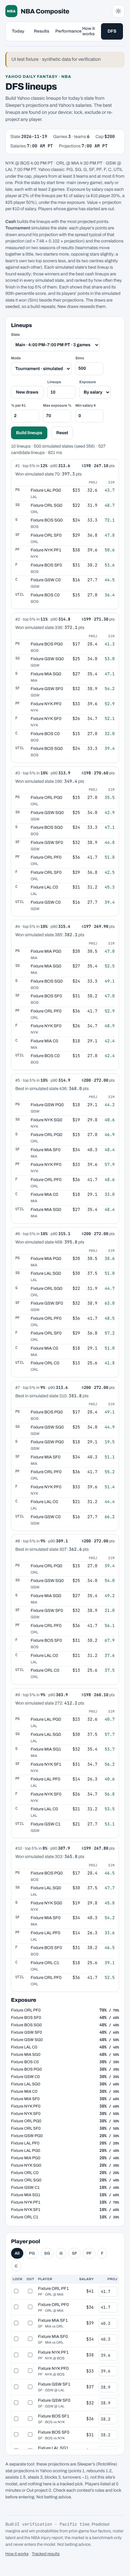
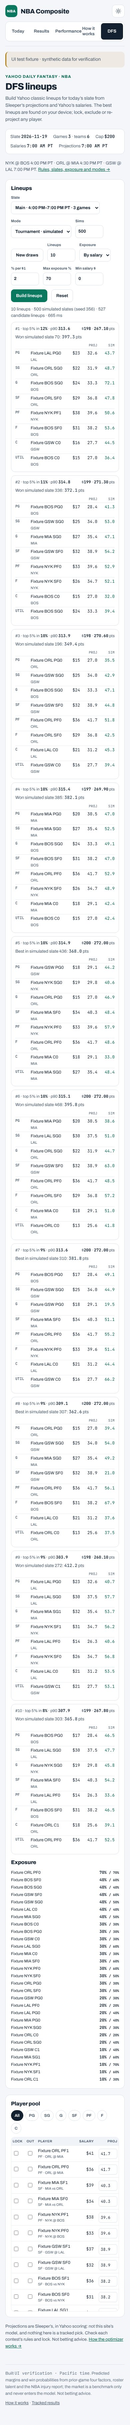
DFS page: short notes; the explanation moves to How it works
Owner's request: the page carried two long paragraphs (rules, slates,
exposure, value, started games, cash vs tournament, the simulation). Now
the page keeps the games, the count of players without a projection, a
link to How it works and the one-line credit (Sleeper's projections, not
this site's model, not a tracked pick, not betting advice). The columns
explain themselves on hover (Value, FPPG, Min).

How it works gains a "DFS lineups" section (dfs.guide(), #dfs): sources
and Yahoo scoring, lineup rules, slates, exposure, cash and tournament
and the Sim column, built from the same constants as the optimizer
(MIN_TEAMS, MAX_PER_TEAM, SIM), so the two cannot drift apart.

Claude-Session: https://claude.ai/code/session_01Tymo9A874w1j1dz2D4UFzh

Changed region(s): [[0.0308, 0.0, 0.9231, 0.9967]]

diff --git a/dfs.py b/dfs.py
@@ -315,11 +315,9 @@ def body(data, ui):
             "<h1>DFS lineups</h1><p>Build Yahoo classic lineups for today’s slate from Sleeper’s "
             "projections and Yahoo’s salaries. The best lineups are found on your device; lock, "
             "exclude or re-project any player.</p></div></div>")
-    note = ("<p class='public-note'>A separate tool: these projections are Sleeper’s (RotoWire) stat "
-            "projections in Yahoo scoring (points 1, rebounds 1.2, assists 1.5, steals 3, blocks 3, "
-            "turnovers −1), not this site’s model, and nothing here is a tracked pick. Players "
-            "listed at 0 minutes or Out project 0. Check each contest’s rules and lock before "
-            "entering. Not betting advice.</p>")
+    note = ("<p class='public-note'>Projections are Sleeper’s, in Yahoo scoring: not this site’s model, "
+            "and nothing here is a tracked pick. Check each contest’s rules and lock. Not betting "
+            "advice. <a href='how-it-works.html#dfs'>How the optimizer works →</a></p>")
     if not data:
         return (head + "<div class='public-empty'><h2>No Yahoo slate today</h2><p>Yahoo has not "
                 "published salaries for today’s games yet, or they could not be fetched. The page "
@@ -334,8 +332,9 @@ def body(data, ui):
               "</div>")
     games = " · ".join(f"{_esc(g['away'])} @ {_esc(g['home'])} {_esc(ui.tip_pt(g['start']))}"
                        for g in data["games"])
-    miss = (f" {len(data['unmatched'])} Yahoo player(s) have no Sleeper projection; enter one "
-            "to use them." if data["unmatched"] else "")
+    k = len(data["unmatched"])
+    miss = (f" {k} Yahoo player{'s have' if k > 1 else ' has'} no Sleeper projection; enter one "
+            "to use them." if k else "")
     controls = ("<div class='dfs-controls'>"
                 "<label>Slate<select id='dfs-slate' aria-label='Slate by start time'></select></label>"
                 "<label>Mode<select id='dfs-mode' aria-label='Contest type'><option value='cash'>Cash · best projection</option>"
@@ -354,35 +353,57 @@ def body(data, ui):
             "<div class='dfs-pos' id='dfs-pos' role='group' aria-label='Filter by position'></div>"
             "<div class='dfs-scroll'><table class='dfs-table'><thead><tr><th>Lock</th><th>Out</th>"
             "<th>Player</th><th class='x'>Pos</th><th class='n'>Salary</th><th class='n'>Proj</th>"
-            "<th class='n x'>Value</th><th class='n x'>FPPG</th><th class='n x'>Min</th></tr></thead>"
+            "<th class='n x' title='Projection per $10 of salary'>Value</th>"
+            "<th class='n x' title='Yahoo season average'>FPPG</th>"
+            "<th class='n x' title='Sleeper projected minutes'>Min</th></tr></thead>"
             "<tbody id='dfs-pool'></tbody></table></div></section>")
     out = ("<section class='dfs-panel dfs-out'><h2>Lineups</h2>" + controls +
            "<div id='dfs-msg' class='dfs-msg' aria-live='polite'>Building lineups…</div>"
            "<div id='dfs-out'></div><h2 style='margin-top:14px'>Exposure</h2>"
            "<ul class='dfs-exp' id='dfs-exposure'></ul></section>")
     payload = json.dumps(data, separators=(",", ":")).replace("</", "<\\/")
-    return (head + status + f"<p class='public-note'>{games}. Yahoo classic: PG, SG, G, SF, PF, F, "
-            f"C, UTIL under the cap, players from at least {MIN_TEAMS} teams and at most "
-            f"{MAX_PER_TEAM} from one. Pick the slate by start time: main (every game), early or "
-            f"late, each with at least 2 games. Exposure by salary caps each player at 2% of the "
-            f"lineups per $1 of salary (a $10 player 20%, a $25 player 50%), under the max "
-            f"exposure. Value = projection per $10 of salary. Players "
-            f"whose game has started are out.{miss}</p>"
-            "<p class='public-note'><b>Cash</b> builds the lineups with the most projected points. "
-            "<b>Tournament</b> simulates the slate: each player’s points are drawn around his projection "
-            f"with the spread typical of that projection (sd ≈ {SIM['sd_base']:g} + {SIM['sd_slope']:g} × "
-            "projection) and the correlations measured on two seasons of results (teammates move together "
-            "a little, two starters more, opposing stars slightly; a team’s own two top scorers less, "
-            "and its two centres slightly against each other). "
-            "Each simulated slate’s best lineup is found exactly; those winners and the best cash "
-            "lineups are scored in every simulated slate, and ranked by how often they finish in the top "
-            "5% of them. Each shows that share and its 90th-percentile score, and its players’ points in "
-            "the simulated slate it won (Sim) beside their projections. The draws are seeded, so a "
-            "build repeats; New draws reseeds them.</p>"
+    return (head + status + f"<p class='public-note'>{games}.{miss} "
+            "<a href='how-it-works.html#dfs'>Rules, slates, exposure and modes →</a></p>"
             "<noscript><p class='public-note'>The optimizer needs JavaScript.</p></noscript>"
             "<div class='dfs-grid'>" + pool + out + "</div>" + note
             + f"<script type='application/json' id='dfs-data'>{payload}</script>"
             + f"<script>{SOLVER_JS}{UI_JS}</script>")
+
+
+def guide():
+    """The DFS section of How it works: everything the page itself leaves
+    out, from the same constants the optimizer uses."""
+    m = SIM
+    return (
+        "<section id='dfs'><h2>DFS lineups</h2>"
+        "<p>The DFS page builds Yahoo daily-fantasy lineups for the day’s games. It is a separate "
+        "tool: it uses none of this site’s forecasts or tracked picks and does not affect them.</p>"
+        "<h3>Projections and salaries</h3><p>Salaries, positions and the cap come from Yahoo. "
+        "Projections are Sleeper’s (RotoWire) stat projections in Yahoo scoring: points 1, rebounds "
+        "1.2, assists 1.5, steals 3, blocks 3, turnovers −1, with no three-pointer bonus. A player "
+        "listed at 0 minutes, Out or on IR projects 0; a Yahoo player Sleeper does not list has no "
+        "projection until you enter one. <b>Value</b> is projection per $10 of salary, <b>FPPG</b> "
+        "Yahoo’s season average and <b>Min</b> Sleeper’s projected minutes.</p>"
+        f"<h3>Lineup rules</h3><p>Yahoo classic contests: PG, SG, G, SF, PF, F, C and UTIL under the "
+        f"cap, with players from at least {MIN_TEAMS} teams and at most {MAX_PER_TEAM} from one. "
+        "Players whose game has started are left out, and locked players are in every lineup.</p>"
+        "<h3>Slates</h3><p>Yahoo lists the day’s games under one cap, so the slate choices come from "
+        "start times: Main (every game), Early (games up to a start time) and Late (games from one), "
+        "each with at least two games.</p>"
+        "<h3>Exposure</h3><p>By salary (the default), a player can be in up to 2% of the lineups per "
+        "$1 of salary (a $10 player 20%, a $25 player 50%), never above the max exposure (70% by "
+        "default). Flat uses the max exposure for every player. Locked players are exempt.</p>"
+        "<h3>Cash and tournament</h3><p><b>Cash</b> builds the lineups with the most projected "
+        "points, found exactly. <b>Tournament</b> simulates the slate: each player’s points are drawn "
+        f"around his projection with the spread typical of that projection (sd ≈ {m['sd_base']:g} + "
+        f"{m['sd_slope']:g} × projection) and the correlations measured on two seasons of results: "
+        "teammates move together a little and two starters more, opposing stars slightly, a team’s "
+        "own two top scorers less, and its two centres slightly against each other. Each simulated "
+        "slate’s best lineup is found exactly; those winners and the best cash lineups are scored in "
+        "every simulated slate and ranked by how often they finish in the top 5% of them.</p>"
+        "<p>Each tournament lineup shows that share, its 90th-percentile score and, under <b>Sim</b>, "
+        "its players’ points in the simulated slate it won. The draws are seeded, so a build repeats; "
+        "New draws reseeds them and Reset returns to the default.</p></section>")
 
 
 def page(ui, today, built, native=None, yahoo=None, sleeper=None, css=""):

diff --git a/tests/test_dfs.py b/tests/test_dfs.py
@@ -322,3 +322,22 @@ process.stdout.write(JSON.stringify({bad:bad,maxdiff:Math.max.apply(null,sums),
     assert out["bad"] == []                       # no candidate beats a winner in its own slate
     assert out["maxdiff"] < 1e-9                  # per-player draws add up to the lineup's score
     assert all(0 <= w < 150 for w in out["won"]) and sum(out["n"]) == 150
+
+
+def test_the_page_stays_short_and_how_it_works_explains_it():
+    yahoo = pd.DataFrame(dfs.parse_feed(_feed([_yp("p1", "Zion Williamson", "NO", "PF", 36),
+                                               _yp("p2", "Deep Bench", "NO", "SG", 10)]), now=NOW),
+                         columns=dfs.YAHOO_COLUMNS).astype(str)
+    line = dict(minutes="32", pts="20", reb="5", ast="3", stl="1", blk="1", to="2", tpm="1")
+    sl = _sleeper([dict(kind="pre", team="NOP", sleeper_id="1", name="Zion Williamson", **line)])
+    html = dfs.page(build_site, "2026-10-29", "built", native=_native(), yahoo=yahoo, sleeper=sl)
+    text = html.split("id='dfs-data'")[0]
+    assert "how-it-works.html#dfs" in text and "1 Yahoo player has no Sleeper projection" in text
+    assert "sd ≈" not in text and "Yahoo classic: PG" not in text      # moved to How it works
+    g = dfs.guide()
+    assert g.startswith("<section id='dfs'>")
+    assert f"at least {dfs.MIN_TEAMS} teams and at most {dfs.MAX_PER_TEAM}" in g
+    assert f"sd ≈ {dfs.SIM['sd_base']:g} + {dfs.SIM['sd_slope']:g}" in g
+    import public_site
+    guide = public_site.PublicSite(build_site, ledger.empty(), "2026-10-29", "built").guide_page()
+    assert "<section id='dfs'><h2>DFS lineups</h2>" in guide

diff --git a/public_site.py b/public_site.py
@@ -373,7 +373,8 @@ class PublicSite:
 <section><h2>Read the results fairly</h2><p>Each result uses the selection and price recorded before play. Wins, losses and pushes stay visible. Pending picks have no return until graded. A push returns the stake and produces zero profit.</p>
 <p>One unit is staked on each selection. ROI is profit divided by total stakes. The market-price baseline is the expected ROI if the market probability is correct; it is usually negative because of the bookmaker’s margin. The market favourite benchmark uses the same games and prices; for totals the benchmark is the over on the same games.</p>
 <p>Uncertainty is shown as one standard error (1 SE). One SE is not a 95% confidence interval. Small samples do not establish a lasting advantage. Tests may overlap, so their returns and the early/established stages are never pooled.</p>
-<p>Public performance reports live, pregame-recorded selections. Rebuilt games, exploratory comparisons and historical model experiments are excluded from the public track record.</p></section></div>"""
+<p>Public performance reports live, pregame-recorded selections. Rebuilt games, exploratory comparisons and historical model experiments are excluded from the public track record.</p></section>"""
+        body += dfs.guide() + "</div>"
         return self.page("How it works · NBA Composite", "how-it-works.html", body)
 
     def model_note(self):
